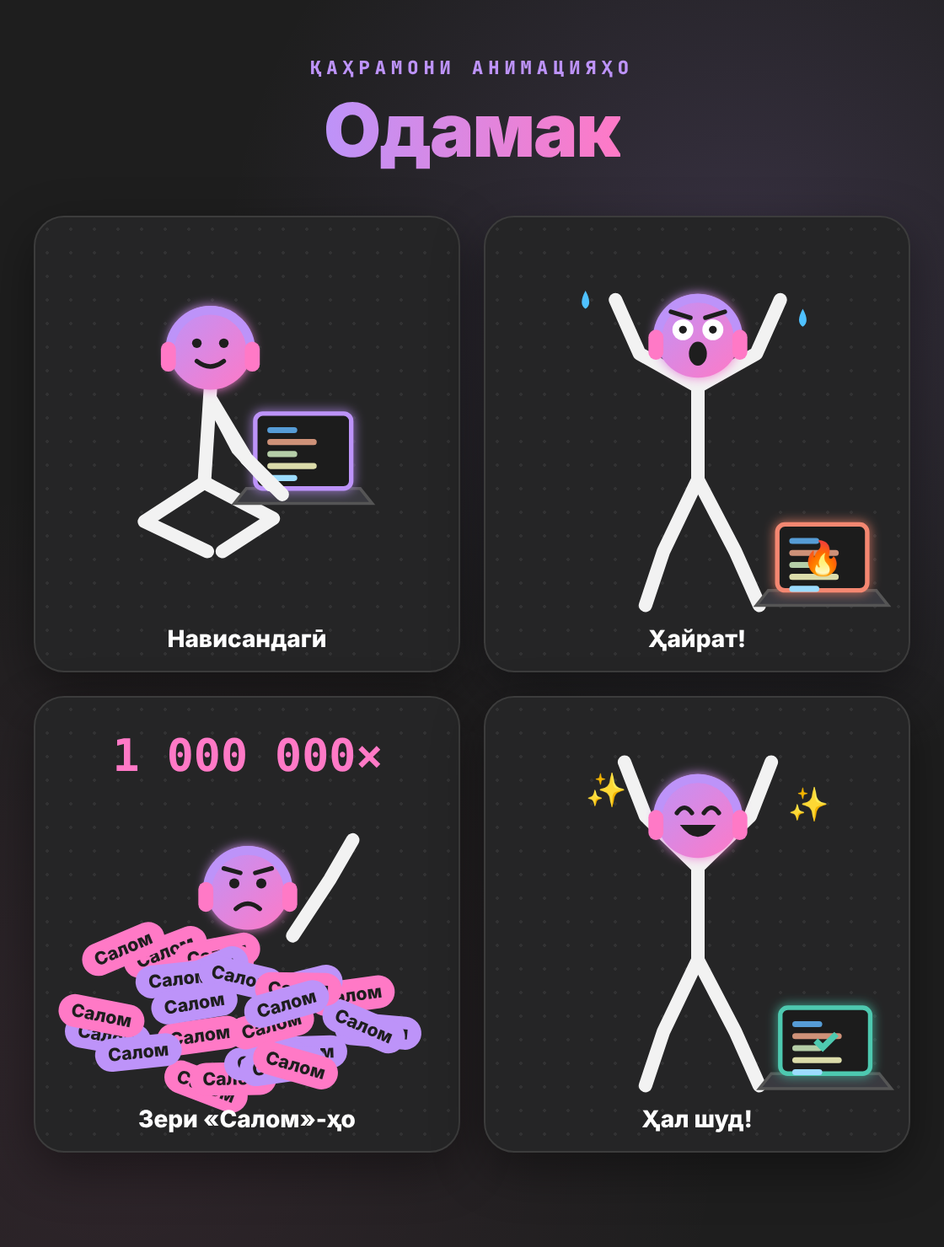
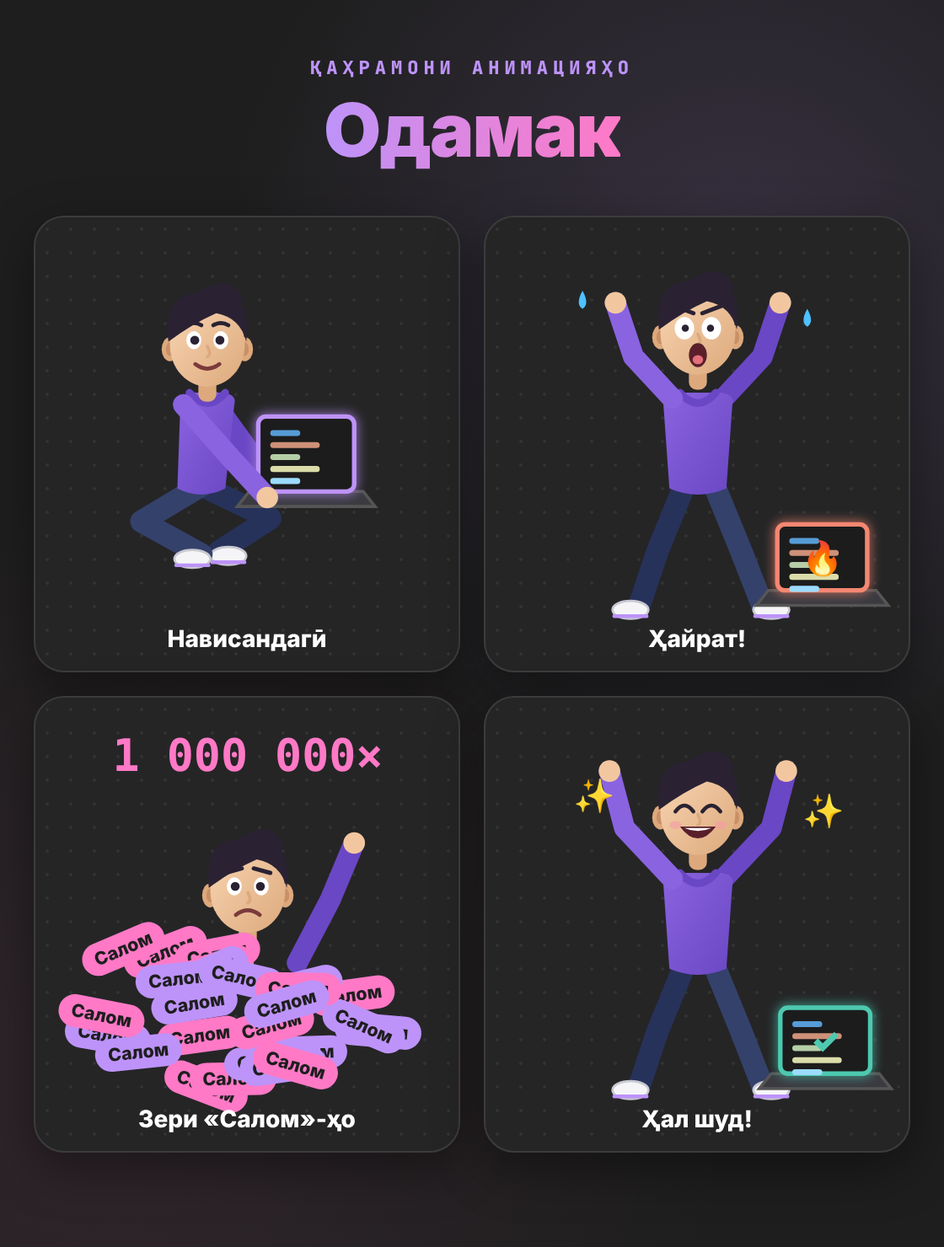
Reels extra 2: more realistic character (human proportions, natural ears, no headphones)
Claude-Session: https://claude.ai/code/session_017jccrZpZbgQTHVBnRbV6Lc

diff --git a/smm-video/reels/extra-02-davr-bepoyon/build/character.html b/smm-video/reels/extra-02-davr-bepoyon/build/character.html
@@ -1,20 +1,24 @@
 <!doctype html><html lang="tg"><head><meta charset="utf-8"><link rel="stylesheet" href="style.css"><style>
 body{width:560px;height:740px} .t{position:absolute;left:0;right:0;top:34px;text-align:center}
-.t h1{position:static;font-size:44px} .t p{font:800 11px var(--mono);letter-spacing:3px;color:var(--purple);margin-bottom:6px}
+.t p{font:800 11px var(--mono);letter-spacing:3px;color:var(--purple);margin-bottom:6px}
 .grid{position:absolute;left:20px;right:20px;top:128px;display:grid;grid-template-columns:1fr 1fr;gap:14px}
 .cell{background:var(--panel);border:1px solid var(--line);border-radius:18px;text-align:center;padding:8px 0 10px;box-shadow:0 10px 30px rgba(0,0,0,.4);
 background-image:radial-gradient(rgba(255,255,255,.06) 1px,transparent 1px);background-size:14px 14px}
 .cell b{display:block;font:800 14px Inter;color:#fff;margin-top:-6px} svg{display:block;margin:0 auto;width:100%;height:auto;max-width:240px}
-</style></head><body><div class="t"><p>ҚАҲРАМОНИ АНИМАЦИЯҲО</p><h1 class="h1" style="position:static"><span class="acc">Одамак</span></h1></div><div class="grid"><div class="cell"><svg viewBox="0 0 270 270" width="270" height="270"><defs>
-<linearGradient id="hg" x1="0" y1="0" x2="1" y2="1"><stop offset="0" stop-color="#BD93F9"/><stop offset="1" stop-color="#FF79C6"/></linearGradient>
+</style></head><body><div class="t"><p>ҚАҲРАМОНИ АНИМАЦИЯҲО</p><h1 class="h1" style="position:static;font-size:44px"><span class="acc">Одамак</span></h1></div><div class="grid"><div class="cell"><svg viewBox="0 0 270 270" width="270" height="270"><defs>
+<linearGradient id="skin" x1="0" y1="0" x2="1" y2="1"><stop offset="0" stop-color="#F8D5B2"/><stop offset="1" stop-color="#DDA97C"/></linearGradient>
+<linearGradient id="hood" x1="0" y1="0" x2="1" y2="1"><stop offset="0" stop-color="#8A63E0"/><stop offset="1" stop-color="#6A47C4"/></linearGradient>
 <filter id="glow" x="-40%" y="-40%" width="180%" height="180%"><feGaussianBlur stdDeviation="3.5" result="b"/><feMerge><feMergeNode in="b"/><feMergeNode in="SourceGraphic"/></feMerge></filter>
-</defs><path d="M110,106 L106,168" fill="none" stroke="#F2F2F2" stroke-width="9" stroke-linecap="round" stroke-linejoin="round"/><path d="M106,168 L152,192 L118,214" fill="none" stroke="#F2F2F2" stroke-width="9" stroke-linecap="round" stroke-linejoin="round"/><path d="M106,168 L66,194 L108,214" fill="none" stroke="#F2F2F2" stroke-width="9" stroke-linecap="round" stroke-linejoin="round"/><g transform="translate(140,122)"><path d="M-6,50 L70,50 L78,60 L-14,60 Z" fill="#3a3a40" stroke="#555" stroke-width="2"/><rect x="0" y="0" width="64" height="50" rx="5" fill="#1E1E1E" stroke="#BD93F9" stroke-width="3" filter="url(#glow)"/><rect x="8" y="9" width="20" height="4" rx="2" fill="#569CD6"/><rect x="8" y="17" width="33" height="4" rx="2" fill="#CE9178"/><rect x="8" y="25" width="20" height="4" rx="2" fill="#B5CEA8"/><rect x="8" y="33" width="33" height="4" rx="2" fill="#DCDCAA"/><rect x="8" y="41" width="20" height="4" rx="2" fill="#9CDCFE"/></g><path d="M110,112 L134,152 L158,176" fill="none" stroke="#F2F2F2" stroke-width="9" stroke-linecap="round" stroke-linejoin="round"/><path d="M110,112 L128,146 L150,170" fill="none" stroke="#F2F2F2" stroke-width="8" stroke-linecap="round" stroke-linejoin="round"/><circle cx="110" cy="78" r="28" fill="url(#hg)" filter="url(#glow)"/><path d="M83,80 A27,27 0 0 1 137,80" fill="none" stroke="#BD93F9" stroke-width="6" stroke-linecap="round"/><rect x="77" y="74" width="10" height="20" rx="5" fill="#FF79C6"/><rect x="133" y="74" width="10" height="20" rx="5" fill="#FF79C6"/><circle cx="101" cy="75" r="3.2" fill="#1E1E1E"/><circle cx="119" cy="75" r="3.2" fill="#1E1E1E"/><path d="M101,87 Q110,94 119,87" fill="none" stroke="#1E1E1E" stroke-width="3" stroke-linecap="round"/></svg><b>Нависандагӣ</b></div><div class="cell"><svg viewBox="0 0 270 270" width="270" height="270"><defs>
-<linearGradient id="hg" x1="0" y1="0" x2="1" y2="1"><stop offset="0" stop-color="#BD93F9"/><stop offset="1" stop-color="#FF79C6"/></linearGradient>
+</defs><path d="M104,170 L150,192 L116,214" fill="none" stroke="#27325A" stroke-width="15" stroke-linecap="round" stroke-linejoin="round"/><ellipse cx="122" cy="217" rx="12" ry="6" fill="#F5F5F7" stroke="#C9C9D2" stroke-width="1.5"/><rect x="110" y="220" width="24" height="2.5" rx="1" fill="#BD93F9"/><path d="M104,170 L64,194 L104,216" fill="none" stroke="#34416A" stroke-width="15" stroke-linecap="round" stroke-linejoin="round"/><ellipse cx="98" cy="219" rx="12" ry="6" fill="#F5F5F7" stroke="#C9C9D2" stroke-width="1.5"/><rect x="86" y="222" width="24" height="2.5" rx="1" fill="#BD93F9"/><path d="M112,114 L138,150 L160,178" fill="none" stroke="#6A47C4" stroke-width="14" stroke-linecap="round" stroke-linejoin="round"/><circle cx="160" cy="178" r="7.2" fill="#F2C7A0"/><path d="M90,116 Q88,109 98,108 L118,108 Q128,109 126,116 L120,172 Q104.0,180 88,172 Z" fill="url(#hood)"/><path d="M96.0,108 Q108.0,122 120.0,108" fill="none" stroke="#6A47C4" stroke-width="5" stroke-linecap="round"/><rect x="102" y="98" width="12" height="16" rx="5" fill="#DDA97C"/><ellipse cx="83" cy="79" rx="5.5" ry="8" fill="#DDA97C"/><ellipse cx="83" cy="79" rx="2.6" ry="4.5" fill="#C98F66"/><ellipse cx="133" cy="79" rx="5.5" ry="8" fill="#DDA97C"/><ellipse cx="133" cy="79" rx="2.6" ry="4.5" fill="#C98F66"/><ellipse cx="108" cy="76" rx="25" ry="28" fill="url(#skin)"/><path d="M82,74 Q78,38 108,42 Q138,38 134,74 Q130,58 114,55 Q98,62 82,74 Z" fill="#2A2233"/><path d="M104,44 Q122,32 128,46" fill="none" stroke="#2A2233" stroke-width="7" stroke-linecap="round"/><ellipse cx="99" cy="73" rx="5" ry="6" fill="#fff"/><circle cx="99.6" cy="73" r="3" fill="#2A2233"/><ellipse cx="117" cy="73" rx="5" ry="6" fill="#fff"/><circle cx="116.4" cy="73" r="3" fill="#2A2233"/><path d="M108,77 Q111,83 108,84" fill="none" stroke="#DDA97C" stroke-width="2" stroke-linecap="round"/><path d="M94,63 Q99,60 104,63 M112,63 Q117,60 122,63" fill="none" stroke="#2A2233" stroke-width="2.6" stroke-linecap="round"/><path d="M100,89 Q108,95 116,89" fill="none" stroke="#7a3b3b" stroke-width="2.6" stroke-linecap="round"/><g transform="translate(142,124)"><path d="M-6,50 L70,50 L78,60 L-14,60 Z" fill="#3a3a40" stroke="#555" stroke-width="2"/><rect x="0" y="0" width="64" height="50" rx="5" fill="#1E1E1E" stroke="#BD93F9" stroke-width="3" filter="url(#glow)"/><rect x="8" y="9" width="20" height="4" rx="2" fill="#569CD6"/><rect x="8" y="17" width="33" height="4" rx="2" fill="#CE9178"/><rect x="8" y="25" width="20" height="4" rx="2" fill="#B5CEA8"/><rect x="8" y="33" width="33" height="4" rx="2" fill="#DCDCAA"/><rect x="8" y="41" width="20" height="4" rx="2" fill="#9CDCFE"/></g><path d="M92,116 L124,152 L148,178" fill="none" stroke="#8A63E0" stroke-width="14" stroke-linecap="round" stroke-linejoin="round"/><circle cx="148" cy="178" r="7.2" fill="#F2C7A0"/></svg><b>Нависандагӣ</b></div><div class="cell"><svg viewBox="0 0 270 270" width="270" height="270"><defs>
+<linearGradient id="skin" x1="0" y1="0" x2="1" y2="1"><stop offset="0" stop-color="#F8D5B2"/><stop offset="1" stop-color="#DDA97C"/></linearGradient>
+<linearGradient id="hood" x1="0" y1="0" x2="1" y2="1"><stop offset="0" stop-color="#8A63E0"/><stop offset="1" stop-color="#6A47C4"/></linearGradient>
 <filter id="glow" x="-40%" y="-40%" width="180%" height="180%"><feGaussianBlur stdDeviation="3.5" result="b"/><feMerge><feMergeNode in="b"/><feMergeNode in="SourceGraphic"/></feMerge></filter>
-</defs><path d="M135,100 L135,166" fill="none" stroke="#F2F2F2" stroke-width="9" stroke-linecap="round" stroke-linejoin="round"/><path d="M135,166 L112,214 L100,250" fill="none" stroke="#F2F2F2" stroke-width="9" stroke-linecap="round" stroke-linejoin="round"/><path d="M135,166 L160,214 L176,250" fill="none" stroke="#F2F2F2" stroke-width="9" stroke-linecap="round" stroke-linejoin="round"/><path d="M135,104 L96,82 L80,46" fill="none" stroke="#F2F2F2" stroke-width="9" stroke-linecap="round" stroke-linejoin="round"/><path d="M135,104 L174,82 L190,46" fill="none" stroke="#F2F2F2" stroke-width="9" stroke-linecap="round" stroke-linejoin="round"/><circle cx="135" cy="70" r="28" fill="url(#hg)" filter="url(#glow)"/><path d="M108,72 A27,27 0 0 1 162,72" fill="none" stroke="#BD93F9" stroke-width="6" stroke-linecap="round"/><rect x="102" y="66" width="10" height="20" rx="5" fill="#FF79C6"/><rect x="158" y="66" width="10" height="20" rx="5" fill="#FF79C6"/><circle cx="125" cy="66" r="7" fill="#fff"/><circle cx="145" cy="66" r="7" fill="#fff"/><circle cx="125" cy="66" r="2.6" fill="#1E1E1E"/><circle cx="145" cy="66" r="2.6" fill="#1E1E1E"/><ellipse cx="135" cy="82" rx="6" ry="8" fill="#1E1E1E"/><path d="M117,54 L130,58 M153,54 L140,58" stroke="#1E1E1E" stroke-width="3" stroke-linecap="round"/><path d="M60,40 q-5,9 0,12 q5,-3 0,-12z M205,52 q-5,9 0,12 q5,-3 0,-12z" fill="#4FC1FF"/><g transform="translate(188,196)"><path d="M-6,44 L66,44 L74,54 L-14,54 Z" fill="#3a3a40" stroke="#555" stroke-width="2"/><rect x="0" y="0" width="60" height="44" rx="5" fill="#1E1E1E" stroke="#F48771" stroke-width="3" filter="url(#glow)"/><rect x="8" y="9" width="20" height="4" rx="2" fill="#569CD6"/><rect x="8" y="17" width="33" height="4" rx="2" fill="#CE9178"/><rect x="8" y="25" width="20" height="4" rx="2" fill="#B5CEA8"/><rect x="8" y="33" width="33" height="4" rx="2" fill="#DCDCAA"/><rect x="8" y="41" width="20" height="4" rx="2" fill="#9CDCFE"/><text x="30" y="30" font-size="22" text-anchor="middle">🔥</text></g></svg><b>Ҳайрат!</b></div><div class="cell"><svg viewBox="0 0 270 270" width="270" height="270"><defs>
-<linearGradient id="hg" x1="0" y1="0" x2="1" y2="1"><stop offset="0" stop-color="#BD93F9"/><stop offset="1" stop-color="#FF79C6"/></linearGradient>
+</defs><path d="M126,170 L108,214 L96,250" fill="none" stroke="#27325A" stroke-width="15" stroke-linecap="round" stroke-linejoin="round"/><ellipse cx="90" cy="253" rx="12" ry="6" fill="#F5F5F7" stroke="#C9C9D2" stroke-width="1.5"/><rect x="78" y="256" width="24" height="2.5" rx="1" fill="#BD93F9"/><path d="M146,170 L164,214 L178,250" fill="none" stroke="#34416A" stroke-width="15" stroke-linecap="round" stroke-linejoin="round"/><ellipse cx="184" cy="253" rx="12" ry="6" fill="#F5F5F7" stroke="#C9C9D2" stroke-width="1.5"/><rect x="172" y="256" width="24" height="2.5" rx="1" fill="#BD93F9"/><path d="M152,112 L178,84 L190,48" fill="none" stroke="#6A47C4" stroke-width="14" stroke-linecap="round" stroke-linejoin="round"/><circle cx="190" cy="48" r="7.2" fill="#F2C7A0"/><path d="M112,116 Q110,109 120,108 L150,108 Q160,109 158,116 L154,172 Q135.0,180 116,172 Z" fill="url(#hood)"/><path d="M123.0,108 Q135.0,122 147.0,108" fill="none" stroke="#6A47C4" stroke-width="5" stroke-linecap="round"/><rect x="129" y="90" width="12" height="16" rx="5" fill="#DDA97C"/><ellipse cx="110" cy="71" rx="5.5" ry="8" fill="#DDA97C"/><ellipse cx="110" cy="71" rx="2.6" ry="4.5" fill="#C98F66"/><ellipse cx="160" cy="71" rx="5.5" ry="8" fill="#DDA97C"/><ellipse cx="160" cy="71" rx="2.6" ry="4.5" fill="#C98F66"/><ellipse cx="135" cy="68" rx="25" ry="28" fill="url(#skin)"/><path d="M109,66 Q105,30 135,34 Q165,30 161,66 Q157,50 141,47 Q125,54 109,66 Z" fill="#2A2233"/><path d="M131,36 Q149,24 155,38" fill="none" stroke="#2A2233" stroke-width="7" stroke-linecap="round"/><ellipse cx="126" cy="65" rx="6.5" ry="7.5" fill="#fff"/><circle cx="126.6" cy="65" r="2.4" fill="#2A2233"/><ellipse cx="144" cy="65" rx="6.5" ry="7.5" fill="#fff"/><circle cx="143.4" cy="65" r="2.4" fill="#2A2233"/><path d="M135,69 Q138,75 135,76" fill="none" stroke="#DDA97C" stroke-width="2" stroke-linecap="round"/><path d="M119,50 L132,55 M151,50 L138,55" stroke="#2A2233" stroke-width="2.8" stroke-linecap="round"/><ellipse cx="135" cy="83" rx="6" ry="8" fill="#5a1f2b"/><ellipse cx="135" cy="86" rx="3.5" ry="3" fill="#E36F7B"/><path d="M118,112 L92,84 L80,48" fill="none" stroke="#8A63E0" stroke-width="14" stroke-linecap="round" stroke-linejoin="round"/><circle cx="80" cy="48" r="7.2" fill="#F2C7A0"/><path d="M58,40 q-5,9 0,12 q5,-3 0,-12z M208,52 q-5,9 0,12 q5,-3 0,-12z" fill="#4FC1FF"/><g transform="translate(188,196)"><path d="M-6,44 L66,44 L74,54 L-14,54 Z" fill="#3a3a40" stroke="#555" stroke-width="2"/><rect x="0" y="0" width="60" height="44" rx="5" fill="#1E1E1E" stroke="#F48771" stroke-width="3" filter="url(#glow)"/><rect x="8" y="9" width="20" height="4" rx="2" fill="#569CD6"/><rect x="8" y="17" width="33" height="4" rx="2" fill="#CE9178"/><rect x="8" y="25" width="20" height="4" rx="2" fill="#B5CEA8"/><rect x="8" y="33" width="33" height="4" rx="2" fill="#DCDCAA"/><rect x="8" y="41" width="20" height="4" rx="2" fill="#9CDCFE"/><text x="30" y="30" font-size="22" text-anchor="middle">🔥</text></g></svg><b>Ҳайрат!</b></div><div class="cell"><svg viewBox="0 0 270 270" width="270" height="270"><defs>
+<linearGradient id="skin" x1="0" y1="0" x2="1" y2="1"><stop offset="0" stop-color="#F8D5B2"/><stop offset="1" stop-color="#DDA97C"/></linearGradient>
+<linearGradient id="hood" x1="0" y1="0" x2="1" y2="1"><stop offset="0" stop-color="#8A63E0"/><stop offset="1" stop-color="#6A47C4"/></linearGradient>
 <filter id="glow" x="-40%" y="-40%" width="180%" height="180%"><feGaussianBlur stdDeviation="3.5" result="b"/><feMerge><feMergeNode in="b"/><feMergeNode in="SourceGraphic"/></feMerge></filter>
-</defs><circle cx="135" cy="118" r="28" fill="url(#hg)" filter="url(#glow)"/><path d="M108,120 A27,27 0 0 1 162,120" fill="none" stroke="#BD93F9" stroke-width="6" stroke-linecap="round"/><rect x="102" y="114" width="10" height="20" rx="5" fill="#FF79C6"/><rect x="158" y="114" width="10" height="20" rx="5" fill="#FF79C6"/><circle cx="126" cy="115" r="3.4" fill="#1E1E1E"/><circle cx="144" cy="115" r="3.4" fill="#1E1E1E"/><path d="M127,132 Q135,125 143,132" fill="none" stroke="#1E1E1E" stroke-width="3" stroke-linecap="round"/><path d="M119,105 L130,108 M151,105 L140,108" stroke="#1E1E1E" stroke-width="3" stroke-linecap="round"/><path d="M165,150 L190,112 L205,86" fill="none" stroke="#F2F2F2" stroke-width="9" stroke-linecap="round" stroke-linejoin="round"/><g transform="translate(70,188) rotate(-19)"><rect width="58" height="22" rx="11" fill="#FF79C6"/><text x="29" y="15" font-size="12" font-weight="800" fill="#1E1E1E" text-anchor="middle" font-family="Inter,sans-serif">Салом</text></g><g transform="translate(194,200) rotate(5)"><rect width="58" height="22" rx="11" fill="#BD93F9"/><text x="29" y="15" font-size="12" font-weight="800" fill="#1E1E1E" text-anchor="middle" font-family="Inter,sans-serif">Салом</text></g><g transform="translate(49,161) rotate(-21)"><rect width="58" height="22" rx="11" fill="#FF79C6"/><text x="29" y="15" font-size="12" font-weight="800" fill="#1E1E1E" text-anchor="middle" font-family="Inter,sans-serif">Салом</text></g><g transform="translate(15,201) rotate(10)"><rect width="58" height="22" rx="11" fill="#BD93F9"/><text x="29" y="15" font-size="12" font-weight="800" fill="#1E1E1E" text-anchor="middle" font-family="Inter,sans-serif">Салом</text></g><g transform="translate(84,157) rotate(-11)"><rect width="58" height="22" rx="11" fill="#FF79C6"/><text x="29" y="15" font-size="12" font-weight="800" fill="#1E1E1E" text-anchor="middle" font-family="Inter,sans-serif">Салом</text></g><g transform="translate(143,218) rotate(-2)"><rect width="58" height="22" rx="11" fill="#BD93F9"/><text x="29" y="15" font-size="12" font-weight="800" fill="#1E1E1E" text-anchor="middle" font-family="Inter,sans-serif">Салом</text></g><g transform="translate(80,172) rotate(-19)"><rect width="58" height="22" rx="11" fill="#FF79C6"/><text x="29" y="15" font-size="12" font-weight="800" fill="#1E1E1E" text-anchor="middle" font-family="Inter,sans-serif">Салом</text></g><g transform="translate(77,177) rotate(-24)"><rect width="58" height="22" rx="11" fill="#BD93F9"/><text x="29" y="15" font-size="12" font-weight="800" fill="#1E1E1E" text-anchor="middle" font-family="Inter,sans-serif">Салом</text></g><g transform="translate(174,183) rotate(-8)"><rect width="58" height="22" rx="11" fill="#FF79C6"/><text x="29" y="15" font-size="12" font-weight="800" fill="#1E1E1E" text-anchor="middle" font-family="Inter,sans-serif">Салом</text></g><g transform="translate(59,171) rotate(-6)"><rect width="58" height="22" rx="11" fill="#BD93F9"/><text x="29" y="15" font-size="12" font-weight="800" fill="#1E1E1E" text-anchor="middle" font-family="Inter,sans-serif">Салом</text></g><g transform="translate(84,230) rotate(21)"><rect width="58" height="22" rx="11" fill="#FF79C6"/><text x="29" y="15" font-size="12" font-weight="800" fill="#1E1E1E" text-anchor="middle" font-family="Inter,sans-serif">Салом</text></g><g transform="translate(105,161) rotate(13)"><rect width="58" height="22" rx="11" fill="#BD93F9"/><text x="29" y="15" font-size="12" font-weight="800" fill="#1E1E1E" text-anchor="middle" font-family="Inter,sans-serif">Салом</text></g><g transform="translate(96,235) rotate(-1)"><rect width="58" height="22" rx="11" fill="#FF79C6"/><text x="29" y="15" font-size="12" font-weight="800" fill="#1E1E1E" text-anchor="middle" font-family="Inter,sans-serif">Салом</text></g><g transform="translate(139,181) rotate(-14)"><rect width="58" height="22" rx="11" fill="#BD93F9"/><text x="29" y="15" font-size="12" font-weight="800" fill="#1E1E1E" text-anchor="middle" font-family="Inter,sans-serif">Салом</text></g><g transform="translate(73,210) rotate(-8)"><rect width="58" height="22" rx="11" fill="#FF79C6"/><text x="29" y="15" font-size="12" font-weight="800" fill="#1E1E1E" text-anchor="middle" font-family="Inter,sans-serif">Салом</text></g><g transform="translate(32,220) rotate(-6)"><rect width="58" height="22" rx="11" fill="#BD93F9"/><text x="29" y="15" font-size="12" font-weight="800" fill="#1E1E1E" text-anchor="middle" font-family="Inter,sans-serif">Салом</text></g><g transform="translate(11,187) rotate(11)"><rect width="58" height="22" rx="11" fill="#FF79C6"/><text x="29" y="15" font-size="12" font-weight="800" fill="#1E1E1E" text-anchor="middle" font-family="Inter,sans-serif">Салом</text></g><g transform="translate(190,189) rotate(23)"><rect width="58" height="22" rx="11" fill="#BD93F9"/><text x="29" y="15" font-size="12" font-weight="800" fill="#1E1E1E" text-anchor="middle" font-family="Inter,sans-serif">Салом</text></g><g transform="translate(140,174) rotate(1)"><rect width="58" height="22" rx="11" fill="#FF79C6"/><text x="29" y="15" font-size="12" font-weight="800" fill="#1E1E1E" text-anchor="middle" font-family="Inter,sans-serif">Салом</text></g><g transform="translate(118,226) rotate(-7)"><rect width="58" height="22" rx="11" fill="#BD93F9"/><text x="29" y="15" font-size="12" font-weight="800" fill="#1E1E1E" text-anchor="middle" font-family="Inter,sans-serif">Салом</text></g><g transform="translate(120,207) rotate(-15)"><rect width="58" height="22" rx="11" fill="#FF79C6"/><text x="29" y="15" font-size="12" font-weight="800" fill="#1E1E1E" text-anchor="middle" font-family="Inter,sans-serif">Салом</text></g><g transform="translate(69,189) rotate(-9)"><rect width="58" height="22" rx="11" fill="#BD93F9"/><text x="29" y="15" font-size="12" font-weight="800" fill="#1E1E1E" text-anchor="middle" font-family="Inter,sans-serif">Салом</text></g><g transform="translate(21,160) rotate(-23)"><rect width="58" height="22" rx="11" fill="#FF79C6"/><text x="29" y="15" font-size="12" font-weight="800" fill="#1E1E1E" text-anchor="middle" font-family="Inter,sans-serif">Салом</text></g><g transform="translate(128,230) rotate(-8)"><rect width="58" height="22" rx="11" fill="#BD93F9"/><text x="29" y="15" font-size="12" font-weight="800" fill="#1E1E1E" text-anchor="middle" font-family="Inter,sans-serif">Салом</text></g><g transform="translate(142,218) rotate(16)"><rect width="58" height="22" rx="11" fill="#FF79C6"/><text x="29" y="15" font-size="12" font-weight="800" fill="#1E1E1E" text-anchor="middle" font-family="Inter,sans-serif">Салом</text></g><g transform="translate(130,193) rotate(-16)"><rect width="58" height="22" rx="11" fill="#BD93F9"/><text x="29" y="15" font-size="12" font-weight="800" fill="#1E1E1E" text-anchor="middle" font-family="Inter,sans-serif">Салом</text></g><text x="135" y="40" font-size="30" text-anchor="middle" fill="#FF79C6" font-family="monospace" font-weight="800">1 000 000×</text></svg><b>Зери «Салом»-ҳо</b></div><div class="cell"><svg viewBox="0 0 270 270" width="270" height="270"><defs>
-<linearGradient id="hg" x1="0" y1="0" x2="1" y2="1"><stop offset="0" stop-color="#BD93F9"/><stop offset="1" stop-color="#FF79C6"/></linearGradient>
+</defs><path d="M168,168 L190,126 L206,88" fill="none" stroke="#6A47C4" stroke-width="14" stroke-linecap="round" stroke-linejoin="round"/><circle cx="206" cy="88" r="7.2" fill="#F2C7A0"/><rect x="129" y="142" width="12" height="16" rx="5" fill="#DDA97C"/><ellipse cx="110" cy="123" rx="5.5" ry="8" fill="#DDA97C"/><ellipse cx="110" cy="123" rx="2.6" ry="4.5" fill="#C98F66"/><ellipse cx="160" cy="123" rx="5.5" ry="8" fill="#DDA97C"/><ellipse cx="160" cy="123" rx="2.6" ry="4.5" fill="#C98F66"/><ellipse cx="135" cy="120" rx="25" ry="28" fill="url(#skin)"/><path d="M109,118 Q105,82 135,86 Q165,82 161,118 Q157,102 141,99 Q125,106 109,118 Z" fill="#2A2233"/><path d="M131,88 Q149,76 155,90" fill="none" stroke="#2A2233" stroke-width="7" stroke-linecap="round"/><ellipse cx="126" cy="117" rx="5" ry="6" fill="#fff"/><circle cx="126.6" cy="117" r="3" fill="#2A2233"/><ellipse cx="144" cy="117" rx="5" ry="6" fill="#fff"/><circle cx="143.4" cy="117" r="3" fill="#2A2233"/><path d="M135,121 Q138,127 135,128" fill="none" stroke="#DDA97C" stroke-width="2" stroke-linecap="round"/><path d="M120,108 L131,105 M150,108 L139,105" stroke="#2A2233" stroke-width="2.8" stroke-linecap="round"/><path d="M127,136 Q135,130 143,136" fill="none" stroke="#7a3b3b" stroke-width="2.6" stroke-linecap="round"/><g transform="translate(70,188) rotate(-19)"><rect width="58" height="22" rx="11" fill="#FF79C6"/><text x="29" y="15" font-size="12" font-weight="800" fill="#1E1E1E" text-anchor="middle" font-family="Inter,sans-serif">Салом</text></g><g transform="translate(194,200) rotate(5)"><rect width="58" height="22" rx="11" fill="#BD93F9"/><text x="29" y="15" font-size="12" font-weight="800" fill="#1E1E1E" text-anchor="middle" font-family="Inter,sans-serif">Салом</text></g><g transform="translate(49,161) rotate(-21)"><rect width="58" height="22" rx="11" fill="#FF79C6"/><text x="29" y="15" font-size="12" font-weight="800" fill="#1E1E1E" text-anchor="middle" font-family="Inter,sans-serif">Салом</text></g><g transform="translate(15,201) rotate(10)"><rect width="58" height="22" rx="11" fill="#BD93F9"/><text x="29" y="15" font-size="12" font-weight="800" fill="#1E1E1E" text-anchor="middle" font-family="Inter,sans-serif">Салом</text></g><g transform="translate(84,157) rotate(-11)"><rect width="58" height="22" rx="11" fill="#FF79C6"/><text x="29" y="15" font-size="12" font-weight="800" fill="#1E1E1E" text-anchor="middle" font-family="Inter,sans-serif">Салом</text></g><g transform="translate(143,218) rotate(-2)"><rect width="58" height="22" rx="11" fill="#BD93F9"/><text x="29" y="15" font-size="12" font-weight="800" fill="#1E1E1E" text-anchor="middle" font-family="Inter,sans-serif">Салом</text></g><g transform="translate(80,172) rotate(-19)"><rect width="58" height="22" rx="11" fill="#FF79C6"/><text x="29" y="15" font-size="12" font-weight="800" fill="#1E1E1E" text-anchor="middle" font-family="Inter,sans-serif">Салом</text></g><g transform="translate(77,177) rotate(-24)"><rect width="58" height="22" rx="11" fill="#BD93F9"/><text x="29" y="15" font-size="12" font-weight="800" fill="#1E1E1E" text-anchor="middle" font-family="Inter,sans-serif">Салом</text></g><g transform="translate(174,183) rotate(-8)"><rect width="58" height="22" rx="11" fill="#FF79C6"/><text x="29" y="15" font-size="12" font-weight="800" fill="#1E1E1E" text-anchor="middle" font-family="Inter,sans-serif">Салом</text></g><g transform="translate(59,171) rotate(-6)"><rect width="58" height="22" rx="11" fill="#BD93F9"/><text x="29" y="15" font-size="12" font-weight="800" fill="#1E1E1E" text-anchor="middle" font-family="Inter,sans-serif">Салом</text></g><g transform="translate(84,230) rotate(21)"><rect width="58" height="22" rx="11" fill="#FF79C6"/><text x="29" y="15" font-size="12" font-weight="800" fill="#1E1E1E" text-anchor="middle" font-family="Inter,sans-serif">Салом</text></g><g transform="translate(105,161) rotate(13)"><rect width="58" height="22" rx="11" fill="#BD93F9"/><text x="29" y="15" font-size="12" font-weight="800" fill="#1E1E1E" text-anchor="middle" font-family="Inter,sans-serif">Салом</text></g><g transform="translate(96,235) rotate(-1)"><rect width="58" height="22" rx="11" fill="#FF79C6"/><text x="29" y="15" font-size="12" font-weight="800" fill="#1E1E1E" text-anchor="middle" font-family="Inter,sans-serif">Салом</text></g><g transform="translate(139,181) rotate(-14)"><rect width="58" height="22" rx="11" fill="#BD93F9"/><text x="29" y="15" font-size="12" font-weight="800" fill="#1E1E1E" text-anchor="middle" font-family="Inter,sans-serif">Салом</text></g><g transform="translate(73,210) rotate(-8)"><rect width="58" height="22" rx="11" fill="#FF79C6"/><text x="29" y="15" font-size="12" font-weight="800" fill="#1E1E1E" text-anchor="middle" font-family="Inter,sans-serif">Салом</text></g><g transform="translate(32,220) rotate(-6)"><rect width="58" height="22" rx="11" fill="#BD93F9"/><text x="29" y="15" font-size="12" font-weight="800" fill="#1E1E1E" text-anchor="middle" font-family="Inter,sans-serif">Салом</text></g><g transform="translate(11,187) rotate(11)"><rect width="58" height="22" rx="11" fill="#FF79C6"/><text x="29" y="15" font-size="12" font-weight="800" fill="#1E1E1E" text-anchor="middle" font-family="Inter,sans-serif">Салом</text></g><g transform="translate(190,189) rotate(23)"><rect width="58" height="22" rx="11" fill="#BD93F9"/><text x="29" y="15" font-size="12" font-weight="800" fill="#1E1E1E" text-anchor="middle" font-family="Inter,sans-serif">Салом</text></g><g transform="translate(140,174) rotate(1)"><rect width="58" height="22" rx="11" fill="#FF79C6"/><text x="29" y="15" font-size="12" font-weight="800" fill="#1E1E1E" text-anchor="middle" font-family="Inter,sans-serif">Салом</text></g><g transform="translate(118,226) rotate(-7)"><rect width="58" height="22" rx="11" fill="#BD93F9"/><text x="29" y="15" font-size="12" font-weight="800" fill="#1E1E1E" text-anchor="middle" font-family="Inter,sans-serif">Салом</text></g><g transform="translate(120,207) rotate(-15)"><rect width="58" height="22" rx="11" fill="#FF79C6"/><text x="29" y="15" font-size="12" font-weight="800" fill="#1E1E1E" text-anchor="middle" font-family="Inter,sans-serif">Салом</text></g><g transform="translate(69,189) rotate(-9)"><rect width="58" height="22" rx="11" fill="#BD93F9"/><text x="29" y="15" font-size="12" font-weight="800" fill="#1E1E1E" text-anchor="middle" font-family="Inter,sans-serif">Салом</text></g><g transform="translate(21,160) rotate(-23)"><rect width="58" height="22" rx="11" fill="#FF79C6"/><text x="29" y="15" font-size="12" font-weight="800" fill="#1E1E1E" text-anchor="middle" font-family="Inter,sans-serif">Салом</text></g><g transform="translate(128,230) rotate(-8)"><rect width="58" height="22" rx="11" fill="#BD93F9"/><text x="29" y="15" font-size="12" font-weight="800" fill="#1E1E1E" text-anchor="middle" font-family="Inter,sans-serif">Салом</text></g><g transform="translate(142,218) rotate(16)"><rect width="58" height="22" rx="11" fill="#FF79C6"/><text x="29" y="15" font-size="12" font-weight="800" fill="#1E1E1E" text-anchor="middle" font-family="Inter,sans-serif">Салом</text></g><g transform="translate(130,193) rotate(-16)"><rect width="58" height="22" rx="11" fill="#BD93F9"/><text x="29" y="15" font-size="12" font-weight="800" fill="#1E1E1E" text-anchor="middle" font-family="Inter,sans-serif">Салом</text></g><text x="135" y="40" font-size="30" text-anchor="middle" fill="#FF79C6" font-family="monospace" font-weight="800">1 000 000×</text></svg><b>Зери «Салом»-ҳо</b></div><div class="cell"><svg viewBox="0 0 270 270" width="270" height="270"><defs>
+<linearGradient id="skin" x1="0" y1="0" x2="1" y2="1"><stop offset="0" stop-color="#F8D5B2"/><stop offset="1" stop-color="#DDA97C"/></linearGradient>
+<linearGradient id="hood" x1="0" y1="0" x2="1" y2="1"><stop offset="0" stop-color="#8A63E0"/><stop offset="1" stop-color="#6A47C4"/></linearGradient>
 <filter id="glow" x="-40%" y="-40%" width="180%" height="180%"><feGaussianBlur stdDeviation="3.5" result="b"/><feMerge><feMergeNode in="b"/><feMergeNode in="SourceGraphic"/></feMerge></filter>
-</defs><path d="M135,100 L135,166" fill="none" stroke="#F2F2F2" stroke-width="9" stroke-linecap="round" stroke-linejoin="round"/><path d="M135,166 L112,214 L100,250" fill="none" stroke="#F2F2F2" stroke-width="9" stroke-linecap="round" stroke-linejoin="round"/><path d="M135,166 L160,214 L176,250" fill="none" stroke="#F2F2F2" stroke-width="9" stroke-linecap="round" stroke-linejoin="round"/><path d="M135,104 L100,70 L86,34" fill="none" stroke="#F2F2F2" stroke-width="9" stroke-linecap="round" stroke-linejoin="round"/><path d="M135,104 L170,70 L184,34" fill="none" stroke="#F2F2F2" stroke-width="9" stroke-linecap="round" stroke-linejoin="round"/><circle cx="135" cy="70" r="28" fill="url(#hg)" filter="url(#glow)"/><path d="M108,72 A27,27 0 0 1 162,72" fill="none" stroke="#BD93F9" stroke-width="6" stroke-linecap="round"/><rect x="102" y="66" width="10" height="20" rx="5" fill="#FF79C6"/><rect x="158" y="66" width="10" height="20" rx="5" fill="#FF79C6"/><path d="M121,68 Q126,61 131,68 M139,68 Q144,61 149,68" fill="none" stroke="#1E1E1E" stroke-width="3" stroke-linecap="round"/><path d="M123,76 Q135,92 147,76 Z" fill="#1E1E1E"/><text x="60" y="60" font-size="22">✨</text><text x="195" y="70" font-size="22">✨</text><g transform="translate(190,198)"><path d="M-6,44 L66,44 L74,54 L-14,54 Z" fill="#3a3a40" stroke="#555" stroke-width="2"/><rect x="0" y="0" width="60" height="44" rx="5" fill="#1E1E1E" stroke="#4EC9B0" stroke-width="3" filter="url(#glow)"/><rect x="8" y="9" width="20" height="4" rx="2" fill="#569CD6"/><rect x="8" y="17" width="33" height="4" rx="2" fill="#CE9178"/><rect x="8" y="25" width="20" height="4" rx="2" fill="#B5CEA8"/><rect x="8" y="33" width="33" height="4" rx="2" fill="#DCDCAA"/><rect x="8" y="41" width="20" height="4" rx="2" fill="#9CDCFE"/><text x="30" y="30" font-size="22" font-weight="900" fill="#4EC9B0" text-anchor="middle">✓</text></g></svg><b>Ҳал шуд!</b></div></div></body></html>
+</defs><path d="M126,170 L108,214 L96,250" fill="none" stroke="#27325A" stroke-width="15" stroke-linecap="round" stroke-linejoin="round"/><ellipse cx="90" cy="253" rx="12" ry="6" fill="#F5F5F7" stroke="#C9C9D2" stroke-width="1.5"/><rect x="78" y="256" width="24" height="2.5" rx="1" fill="#BD93F9"/><path d="M146,170 L164,214 L178,250" fill="none" stroke="#34416A" stroke-width="15" stroke-linecap="round" stroke-linejoin="round"/><ellipse cx="184" cy="253" rx="12" ry="6" fill="#F5F5F7" stroke="#C9C9D2" stroke-width="1.5"/><rect x="172" y="256" width="24" height="2.5" rx="1" fill="#BD93F9"/><path d="M152,112 L184,78 L194,40" fill="none" stroke="#6A47C4" stroke-width="14" stroke-linecap="round" stroke-linejoin="round"/><circle cx="194" cy="40" r="7.2" fill="#F2C7A0"/><path d="M112,116 Q110,109 120,108 L150,108 Q160,109 158,116 L154,172 Q135.0,180 116,172 Z" fill="url(#hood)"/><path d="M123.0,108 Q135.0,122 147.0,108" fill="none" stroke="#6A47C4" stroke-width="5" stroke-linecap="round"/><rect x="129" y="90" width="12" height="16" rx="5" fill="#DDA97C"/><ellipse cx="110" cy="71" rx="5.5" ry="8" fill="#DDA97C"/><ellipse cx="110" cy="71" rx="2.6" ry="4.5" fill="#C98F66"/><ellipse cx="160" cy="71" rx="5.5" ry="8" fill="#DDA97C"/><ellipse cx="160" cy="71" rx="2.6" ry="4.5" fill="#C98F66"/><ellipse cx="135" cy="68" rx="25" ry="28" fill="url(#skin)"/><path d="M109,66 Q105,30 135,34 Q165,30 161,66 Q157,50 141,47 Q125,54 109,66 Z" fill="#2A2233"/><path d="M131,36 Q149,24 155,38" fill="none" stroke="#2A2233" stroke-width="7" stroke-linecap="round"/><path d="M120,67 Q126,59 132,67" fill="none" stroke="#2A2233" stroke-width="2.6" stroke-linecap="round"/><path d="M138,67 Q144,59 150,67" fill="none" stroke="#2A2233" stroke-width="2.6" stroke-linecap="round"/><path d="M135,69 Q138,75 135,76" fill="none" stroke="#DDA97C" stroke-width="2" stroke-linecap="round"/><path d="M123,77 Q135,93 147,77 Z" fill="#5a1f2b"/><path d="M126,78 Q135,82 144,78" fill="#fff"/><ellipse cx="120" cy="76" rx="4" ry="2.6" fill="#F59BA4" opacity=".6"/><ellipse cx="150" cy="76" rx="4" ry="2.6" fill="#F59BA4" opacity=".6"/><path d="M118,112 L86,78 L76,40" fill="none" stroke="#8A63E0" stroke-width="14" stroke-linecap="round" stroke-linejoin="round"/><circle cx="76" cy="40" r="7.2" fill="#F2C7A0"/><text x="52" y="64" font-size="22">✨</text><text x="205" y="74" font-size="22">✨</text><g transform="translate(190,198)"><path d="M-6,44 L66,44 L74,54 L-14,54 Z" fill="#3a3a40" stroke="#555" stroke-width="2"/><rect x="0" y="0" width="60" height="44" rx="5" fill="#1E1E1E" stroke="#4EC9B0" stroke-width="3" filter="url(#glow)"/><rect x="8" y="9" width="20" height="4" rx="2" fill="#569CD6"/><rect x="8" y="17" width="33" height="4" rx="2" fill="#CE9178"/><rect x="8" y="25" width="20" height="4" rx="2" fill="#B5CEA8"/><rect x="8" y="33" width="33" height="4" rx="2" fill="#DCDCAA"/><rect x="8" y="41" width="20" height="4" rx="2" fill="#9CDCFE"/><text x="30" y="30" font-size="22" font-weight="900" fill="#4EC9B0" text-anchor="middle">✓</text></g></svg><b>Ҳал шуд!</b></div></div></body></html>

diff --git a/smm-video/reels/extra-02-davr-bepoyon/build/character.py b/smm-video/reels/extra-02-davr-bepoyon/build/character.py
@@ -1,73 +1,85 @@
-# Одамак — қаҳрамони анимацияҳо. Чор ҳолат: нависандагӣ, ҳайрат, зери «Салом»-ҳо, хушҳол.
-def limb(*pts, w=9, c="#F2F2F2"):
+# Одамак v2 — қаҳрамони воқеъбинтар: сари инсонӣ бо мӯй ва гӯши табиӣ, гардан, ҷомаи бунафш, ҷинс, кроссовка.
+import random
+SKIN, SKIN2 = "#F2C7A0", "#DDA97C"
+HAIR = "#2A2233"; HOOD, HOOD2 = "#8A63E0", "#6A47C4"; JEANS, JEANS2 = "#34416A", "#27325A"
+
+def stroke(pts, w, c, cap="round"):
     d = "M" + " L".join(f"{x},{y}" for x, y in pts)
-    return f'<path d="{d}" fill="none" stroke="{c}" stroke-width="{w}" stroke-linecap="round" stroke-linejoin="round"/>'
+    return f'<path d="{d}" fill="none" stroke="{c}" stroke-width="{w}" stroke-linecap="{cap}" stroke-linejoin="round"/>'
+def arm(s, e, h, front=True):
+    c = HOOD if front else HOOD2
+    return stroke([s, e, h], 14, c) + f'<circle cx="{h[0]}" cy="{h[1]}" r="7.2" fill="{SKIN}"/>'
+def leg(h, k, f, front=True, flip=1):
+    c = JEANS if front else JEANS2
+    fx, fy = f
+    shoe = f'<ellipse cx="{fx+flip*6}" cy="{fy+3}" rx="12" ry="6" fill="#F5F5F7" stroke="#C9C9D2" stroke-width="1.5"/><rect x="{fx+flip*6-12}" y="{fy+6}" width="24" height="2.5" rx="1" fill="#BD93F9"/>'
+    return stroke([h, k, f], 15, c) + shoe
+def torso(sh_l, sh_r, hip_l, hip_r):
+    (a, b), (c, d), (e, f), (g, h) = sh_l, sh_r, hip_r, hip_l
+    path = f'M{a},{b+4} Q{a-2},{b-3} {a+8},{b-4} L{c-8},{d-4} Q{c+2},{d-3} {c},{d+4} L{e},{f} Q{(e+g)/2},{f+8} {g},{h} Z'
+    return (f'<path d="{path}" fill="url(#hood)"/>'
+            f'<path d="M{(a+c)/2-12},{b-4} Q{(a+c)/2},{b+10} {(a+c)/2+12},{d-4}" fill="none" stroke="{HOOD2}" stroke-width="5" stroke-linecap="round"/>')
+def neck(x, y): return f'<rect x="{x-6}" y="{y}" width="12" height="16" rx="5" fill="{SKIN2}"/>'
 
+def face(cx, cy, mood):
+    def eye(dx, wide=False, closed=False, happy=False):
+        x = cx + dx
+        if happy: return f'<path d="M{x-6},{cy-1} Q{x},{cy-9} {x+6},{cy-1}" fill="none" stroke="#2A2233" stroke-width="2.6" stroke-linecap="round"/>'
+        r = 6.5 if wide else 5
+        return f'<ellipse cx="{x}" cy="{cy-3}" rx="{r}" ry="{r+1}" fill="#fff"/><circle cx="{x+(0.6 if dx<0 else -0.6)}" cy="{cy-3}" r="{3 if not wide else 2.4}" fill="#2A2233"/>'
+    nose = f'<path d="M{cx},{cy+1} Q{cx+3},{cy+7} {cx},{cy+8}" fill="none" stroke="{SKIN2}" stroke-width="2" stroke-linecap="round"/>'
+    if mood == "type":
+        return (eye(-9)+eye(9)+nose+f'<path d="M{cx-14},{cy-13} Q{cx-9},{cy-16} {cx-4},{cy-13} M{cx+4},{cy-13} Q{cx+9},{cy-16} {cx+14},{cy-13}" fill="none" stroke="{HAIR}" stroke-width="2.6" stroke-linecap="round"/>'
+                f'<path d="M{cx-8},{cy+13} Q{cx},{cy+19} {cx+8},{cy+13}" fill="none" stroke="#7a3b3b" stroke-width="2.6" stroke-linecap="round"/>')
+    if mood == "shock":
+        return (eye(-9,True)+eye(9,True)+nose+f'<path d="M{cx-16},{cy-18} L{cx-3},{cy-13} M{cx+16},{cy-18} L{cx+3},{cy-13}" stroke="{HAIR}" stroke-width="2.8" stroke-linecap="round"/>'
+                f'<ellipse cx="{cx}" cy="{cy+15}" rx="6" ry="8" fill="#5a1f2b"/><ellipse cx="{cx}" cy="{cy+18}" rx="3.5" ry="3" fill="#E36F7B"/>')
+    if mood == "happy":
+        return (eye(-9,happy=True)+eye(9,happy=True)+nose+f'<path d="M{cx-12},{cy+9} Q{cx},{cy+25} {cx+12},{cy+9} Z" fill="#5a1f2b"/><path d="M{cx-9},{cy+10} Q{cx},{cy+14} {cx+9},{cy+10}" fill="#fff"/>'
+                f'<ellipse cx="{cx-15}" cy="{cy+8}" rx="4" ry="2.6" fill="#F59BA4" opacity=".6"/><ellipse cx="{cx+15}" cy="{cy+8}" rx="4" ry="2.6" fill="#F59BA4" opacity=".6"/>')
+    return (eye(-9)+eye(9)+nose+f'<path d="M{cx-15},{cy-12} L{cx-4},{cy-15} M{cx+15},{cy-12} L{cx+4},{cy-15}" stroke="{HAIR}" stroke-width="2.8" stroke-linecap="round"/>'
+            f'<path d="M{cx-8},{cy+16} Q{cx},{cy+10} {cx+8},{cy+16}" fill="none" stroke="#7a3b3b" stroke-width="2.6" stroke-linecap="round"/>')
 def head(cx, cy, mood):
-    face = ""
-    if mood == "type":      # диққат, табассуми хурд
-        face = (f'<circle cx="{cx-9}" cy="{cy-3}" r="3.2" fill="#1E1E1E"/><circle cx="{cx+9}" cy="{cy-3}" r="3.2" fill="#1E1E1E"/>'
-                f'<path d="M{cx-9},{cy+9} Q{cx},{cy+16} {cx+9},{cy+9}" fill="none" stroke="#1E1E1E" stroke-width="3" stroke-linecap="round"/>')
-    elif mood == "shock":   # чашмҳои калон, даҳони кушода
-        face = (f'<circle cx="{cx-10}" cy="{cy-4}" r="7" fill="#fff"/><circle cx="{cx+10}" cy="{cy-4}" r="7" fill="#fff"/>'
-                f'<circle cx="{cx-10}" cy="{cy-4}" r="2.6" fill="#1E1E1E"/><circle cx="{cx+10}" cy="{cy-4}" r="2.6" fill="#1E1E1E"/>'
-                f'<ellipse cx="{cx}" cy="{cy+12}" rx="6" ry="8" fill="#1E1E1E"/>'
-                f'<path d="M{cx-18},{cy-16} L{cx-5},{cy-12} M{cx+18},{cy-16} L{cx+5},{cy-12}" stroke="#1E1E1E" stroke-width="3" stroke-linecap="round"/>')
-    elif mood == "happy":   # чашмони пӯшида, табассуми калон
-        face = (f'<path d="M{cx-14},{cy-2} Q{cx-9},{cy-9} {cx-4},{cy-2} M{cx+4},{cy-2} Q{cx+9},{cy-9} {cx+14},{cy-2}" fill="none" stroke="#1E1E1E" stroke-width="3" stroke-linecap="round"/>'
-                f'<path d="M{cx-12},{cy+6} Q{cx},{cy+22} {cx+12},{cy+6} Z" fill="#1E1E1E"/>')
-    elif mood == "help":    # нигарон
-        face = (f'<circle cx="{cx-9}" cy="{cy-3}" r="3.4" fill="#1E1E1E"/><circle cx="{cx+9}" cy="{cy-3}" r="3.4" fill="#1E1E1E"/>'
-                f'<path d="M{cx-8},{cy+14} Q{cx},{cy+7} {cx+8},{cy+14}" fill="none" stroke="#1E1E1E" stroke-width="3" stroke-linecap="round"/>'
-                f'<path d="M{cx-16},{cy-13} L{cx-5},{cy-10} M{cx+16},{cy-13} L{cx+5},{cy-10}" stroke="#1E1E1E" stroke-width="3" stroke-linecap="round"/>')
-    # гӯшмонак (headphones) — нишони хосси Одамак
-    hp = (f'<path d="M{cx-27},{cy+2} A27,27 0 0 1 {cx+27},{cy+2}" fill="none" stroke="#BD93F9" stroke-width="6" stroke-linecap="round"/>'
-          f'<rect x="{cx-33}" y="{cy-4}" width="10" height="20" rx="5" fill="#FF79C6"/><rect x="{cx+23}" y="{cy-4}" width="10" height="20" rx="5" fill="#FF79C6"/>')
-    return (f'<circle cx="{cx}" cy="{cy}" r="28" fill="url(#hg)" filter="url(#glow)"/>' + hp + face)
+    ears = "".join(f'<ellipse cx="{cx+s*25}" cy="{cy+3}" rx="5.5" ry="8" fill="{SKIN2}"/><ellipse cx="{cx+s*25}" cy="{cy+3}" rx="2.6" ry="4.5" fill="#C98F66"/>' for s in (-1, 1))
+    hair = (f'<path d="M{cx-26},{cy-2} Q{cx-30},{cy-38} {cx},{cy-34} Q{cx+30},{cy-38} {cx+26},{cy-2} Q{cx+22},{cy-18} {cx+6},{cy-21} Q{cx-10},{cy-14} {cx-26},{cy-2} Z" fill="{HAIR}"/>'
+            f'<path d="M{cx-4},{cy-32} Q{cx+14},{cy-44} {cx+20},{cy-30}" fill="none" stroke="{HAIR}" stroke-width="7" stroke-linecap="round"/>')
+    return (neck(cx, cy+22) + ears + f'<ellipse cx="{cx}" cy="{cy}" rx="25" ry="28" fill="url(#skin)"/>' + hair + face(cx, cy, mood))
 
-def laptop(x, y, scr="#BD93F9", w=70, h=52, lines=True, mark=""):
-    s = (f'<g transform="translate({x},{y})">'
-         f'<path d="M-6,{h} L{w+6},{h} L{w+14},{h+10} L-14,{h+10} Z" fill="#3a3a40" stroke="#555" stroke-width="2"/>'
+def laptop(x, y, scr="#BD93F9", w=70, h=52, mark=""):
+    s = (f'<g transform="translate({x},{y})"><path d="M-6,{h} L{w+6},{h} L{w+14},{h+10} L-14,{h+10} Z" fill="#3a3a40" stroke="#555" stroke-width="2"/>'
          f'<rect x="0" y="0" width="{w}" height="{h}" rx="5" fill="#1E1E1E" stroke="{scr}" stroke-width="3" filter="url(#glow)"/>')
-    if lines:
-        cols = ["#569CD6", "#CE9178", "#B5CEA8", "#DCDCAA", "#9CDCFE"]
-        for i in range(5):
-            s += f'<rect x="8" y="{9+i*8}" width="{20+((i*13)%26)}" height="4" rx="2" fill="{cols[i]}"/>'
-    s += mark + '</g>'
-    return s
+    cols = ["#569CD6", "#CE9178", "#B5CEA8", "#DCDCAA", "#9CDCFE"]
+    for i in range(5): s += f'<rect x="8" y="{9+i*8}" width="{20+((i*13)%26)}" height="4" rx="2" fill="{cols[i]}"/>'
+    return s + mark + '</g>'
 
-DEFS = '''<defs>
-<linearGradient id="hg" x1="0" y1="0" x2="1" y2="1"><stop offset="0" stop-color="#BD93F9"/><stop offset="1" stop-color="#FF79C6"/></linearGradient>
+DEFS = f'''<defs>
+<linearGradient id="skin" x1="0" y1="0" x2="1" y2="1"><stop offset="0" stop-color="#F8D5B2"/><stop offset="1" stop-color="{SKIN2}"/></linearGradient>
+<linearGradient id="hood" x1="0" y1="0" x2="1" y2="1"><stop offset="0" stop-color="{HOOD}"/><stop offset="1" stop-color="{HOOD2}"/></linearGradient>
 <filter id="glow" x="-40%" y="-40%" width="180%" height="180%"><feGaussianBlur stdDeviation="3.5" result="b"/><feMerge><feMergeNode in="b"/><feMergeNode in="SourceGraphic"/></feMerge></filter>
 </defs>'''
 
 def pose_type():
-    return (limb((110,106),(106,168)) + limb((106,168),(152,192),(118,214)) + limb((106,168),(66,194),(108,214))
-            + laptop(140,122,"#BD93F9",64,50) + limb((110,112),(134,152),(158,176)) + limb((110,112),(128,146),(150,170),w=8)
-            + head(110,78,"type"))
+    return (leg((104,170),(150,192),(116,214),False) + leg((104,170),(64,194),(104,216),True,-1)
+            + arm((112,114),(138,150),(160,178),False) + torso((90,112),(126,112),(88,172),(120,172)) + head(108,76,"type")
+            + laptop(142,124,"#BD93F9",64,50) + arm((92,116),(124,152),(148,178)))
 def pose_shock():
-    drops = '<path d="M60,40 q-5,9 0,12 q5,-3 0,-12z M205,52 q-5,9 0,12 q5,-3 0,-12z" fill="#4FC1FF"/>'
-    return (limb((135,100),(135,166)) + limb((135,166),(112,214),(100,250)) + limb((135,166),(160,214),(176,250))
-            + limb((135,104),(96,82),(80,46)) + limb((135,104),(174,82),(190,46))
-            + head(135,70,"shock") + drops
-            + laptop(188,196,"#F48771",60,44,True,'<text x="30" y="30" font-size="22" text-anchor="middle">🔥</text>'))
+    drops = '<path d="M58,40 q-5,9 0,12 q5,-3 0,-12z M208,52 q-5,9 0,12 q5,-3 0,-12z" fill="#4FC1FF"/>'
+    return (leg((126,170),(108,214),(96,250),False,-1) + leg((146,170),(164,214),(178,250)) + arm((152,112),(178,84),(190,48),False)
+            + torso((112,112),(158,112),(116,172),(154,172)) + head(135,68,"shock") + arm((118,112),(92,84),(80,48)) + drops
+            + laptop(188,196,"#F48771",60,44,'<text x="30" y="30" font-size="22" text-anchor="middle">🔥</text>'))
 def pose_buried():
-    pills = ""
-    import random
-    r = random.Random(4)
+    r = random.Random(4); pills = ""
     for i in range(26):
-        x = r.randint(10,205); y = r.randint(150,235); rot = r.randint(-25,25)
-        c = "#BD93F9" if i % 2 else "#FF79C6"
+        x = r.randint(10, 205); y = r.randint(150, 235); rot = r.randint(-25, 25); c = "#BD93F9" if i % 2 else "#FF79C6"
         pills += (f'<g transform="translate({x},{y}) rotate({rot})"><rect width="58" height="22" rx="11" fill="{c}"/>'
                   f'<text x="29" y="15" font-size="12" font-weight="800" fill="#1E1E1E" text-anchor="middle" font-family="Inter,sans-serif">Салом</text></g>')
-    return (head(135,118,"help") + limb((165,150),(190,112),(205,86)) + pills
+    return (arm((168,168),(190,126),(206,88),False) + head(135,120,"help") + pills
             + '<text x="135" y="40" font-size="30" text-anchor="middle" fill="#FF79C6" font-family="monospace" font-weight="800">1 000 000×</text>')
 def pose_happy():
-    return (limb((135,100),(135,166)) + limb((135,166),(112,214),(100,250)) + limb((135,166),(160,214),(176,250))
-            + limb((135,104),(100,70),(86,34)) + limb((135,104),(170,70),(184,34))
-            + head(135,70,"happy")
-            + '<text x="60" y="60" font-size="22">✨</text><text x="195" y="70" font-size="22">✨</text>'
-            + laptop(190,198,"#4EC9B0",60,44,True,'<text x="30" y="30" font-size="22" font-weight="900" fill="#4EC9B0" text-anchor="middle">✓</text>'))
+    return (leg((126,170),(108,214),(96,250),False,-1) + leg((146,170),(164,214),(178,250)) + arm((152,112),(184,78),(194,40),False)
+            + torso((112,112),(158,112),(116,172),(154,172)) + head(135,68,"happy") + arm((118,112),(86,78),(76,40))
+            + '<text x="52" y="64" font-size="22">✨</text><text x="205" y="74" font-size="22">✨</text>'
+            + laptop(190,198,"#4EC9B0",60,44,'<text x="30" y="30" font-size="22" font-weight="900" fill="#4EC9B0" text-anchor="middle">✓</text>'))
 
 def svg(inner): return f'<svg viewBox="0 0 270 270" width="270" height="270">{DEFS}{inner}</svg>'
 POSES = [("Нависандагӣ", pose_type), ("Ҳайрат!", pose_shock), ("Зери «Салом»-ҳо", pose_buried), ("Ҳал шуд!", pose_happy)]
@@ -75,10 +87,10 @@ if __name__ == "__main__":
     cells = "".join(f'<div class="cell">{svg(f())}<b>{n}</b></div>' for n, f in POSES)
     html = f'''<!doctype html><html lang="tg"><head><meta charset="utf-8"><link rel="stylesheet" href="style.css"><style>
 body{{width:560px;height:740px}} .t{{position:absolute;left:0;right:0;top:34px;text-align:center}}
-.t h1{{position:static;font-size:44px}} .t p{{font:800 11px var(--mono);letter-spacing:3px;color:var(--purple);margin-bottom:6px}}
+.t p{{font:800 11px var(--mono);letter-spacing:3px;color:var(--purple);margin-bottom:6px}}
 .grid{{position:absolute;left:20px;right:20px;top:128px;display:grid;grid-template-columns:1fr 1fr;gap:14px}}
 .cell{{background:var(--panel);border:1px solid var(--line);border-radius:18px;text-align:center;padding:8px 0 10px;box-shadow:0 10px 30px rgba(0,0,0,.4);
 background-image:radial-gradient(rgba(255,255,255,.06) 1px,transparent 1px);background-size:14px 14px}}
 .cell b{{display:block;font:800 14px Inter;color:#fff;margin-top:-6px}} svg{{display:block;margin:0 auto;width:100%;height:auto;max-width:240px}}
-</style></head><body><div class="t"><p>ҚАҲРАМОНИ АНИМАЦИЯҲО</p><h1 class="h1" style="position:static"><span class="acc">Одамак</span></h1></div><div class="grid">{cells}</div></body></html>'''
+</style></head><body><div class="t"><p>ҚАҲРАМОНИ АНИМАЦИЯҲО</p><h1 class="h1" style="position:static;font-size:44px"><span class="acc">Одамак</span></h1></div><div class="grid">{cells}</div></body></html>'''
     open("character.html", "w", encoding="utf-8").write(html)
